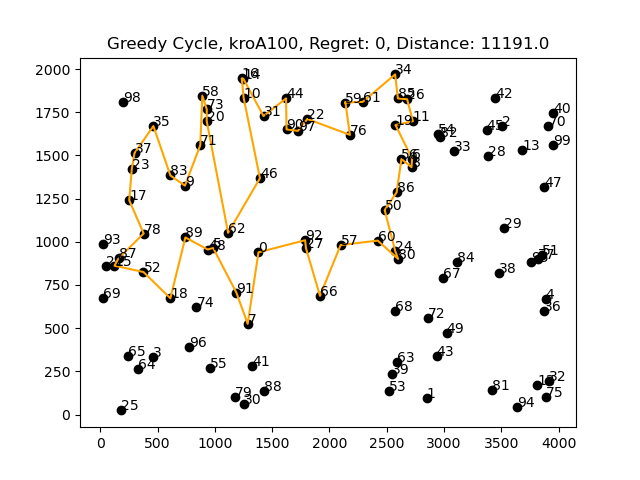
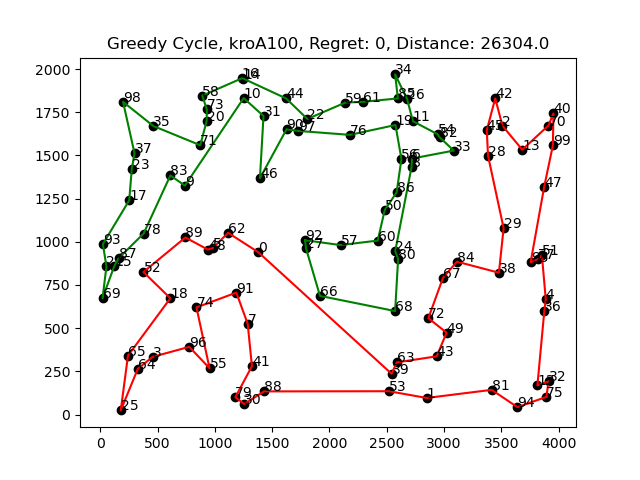
Two cycles

diff --git a/approaches/greedy_cycle/greedy_heuristic.py b/approaches/greedy_cycle/greedy_heuristic.py
@@ -10,37 +10,48 @@ class Greedy(AbstractApproach):
     def __init__(self, instance, regret = 1):
         self.instance = instance
         self.regret = regret
-        self.examples_num = np.ceil(instance.matrix.shape[0] / 2)
+        self.examples_num_first = np.ceil(instance.matrix.shape[0] / 2)
+        self.examples_num_second = instance.matrix.shape[0] - self.examples_num_first
         self.algorithm = 'Greedy Cycle'
-        self._solution = []
+        self._first_solution = list()
+        self._second_solution = list()
     
-    @property
-    def solution(self):
-        return self._solution
     
-    def solve(self, start_node):
-        self._solution = self._find_solution(start_node)
+    def solve(self, first_start_node, second_start_node):
+        self._first_solution, self._second_solution = self._find_solution(first_start_node, second_start_node)
 
-    def _find_solution(self, start_node):
-        cycle = [start_node, start_node] #z ostatniego można przejśc do pierwszego więc dodajemy obydwa w celach imitacji cyklu
+    def _find_solution(self, first_start_node, second_start_node):
+        first_cycle = [first_start_node, first_start_node] #z ostatniego można przejśc do pierwszego więc dodajemy obydwa w celach imitacji cyklu
+        second_cycle = [second_start_node, second_start_node] #z ostatniego można przejśc do pierwszego więc dodajemy obydwa w celach imitacji cyklu
 
-        while len(cycle) - 1 <= self.examples_num:
-            matrix_cost = dict()
+        while len(set(first_cycle)) < self.examples_num_first or len(set(second_cycle)) < self.examples_num_second:
+            if len(set(first_cycle)) < self.examples_num_first:
+                nodes_not_in_cycle = list(set(range(self.instance.matrix.shape[0])) - set(first_cycle) - set(second_cycle))
+                first_cycle = self._find_current_insertion(first_cycle, nodes_not_in_cycle)
+
+            if len(set(second_cycle)) < self.examples_num_second:
+                nodes_not_in_cycle = list(set(range(self.instance.matrix.shape[0])) - set(first_cycle) - set(second_cycle))
+                second_cycle = self._find_current_insertion(second_cycle, nodes_not_in_cycle)
+
+        return first_cycle, second_cycle
+
+    def _find_current_insertion(self, cycle, nodes_not_in_cycle):
+        matrix_cost = dict()
+        for idx, node_idx in enumerate(nodes_not_in_cycle):
+            local_insertion = list()
+
+            for edge_idx1 in range(len(cycle) - 1):
+                edge_idx2 = edge_idx1 + 1
+                ins_cost = self._compute_insertion_cost(node_idx = node_idx, edge_idx1 = cycle[edge_idx1], edge_idx2 = cycle[edge_idx2])
+                local_insertion.append(Insertion(node_idx, ins_cost, edge_idx1))
+
+            matrix_cost[idx] = self._sort_insertion(local_insertion)
             
-            nodes_not_in_cycle = list( set(range(self.instance.matrix.shape[0])) - set(cycle) )
-            for idx, node_idx in enumerate(nodes_not_in_cycle):
-                local_insertion = list()
+        v_best = self._find_best_insertion(matrix_cost)
+        self._insert_into_cycle(cycle, v_best)
 
-                for edge_idx1 in range(len(cycle) - 1):
-                    edge_idx2 = edge_idx1 + 1
-                    ins_cost = self._compute_insertion_cost(node_idx = node_idx, edge_idx1 = cycle[edge_idx1], edge_idx2 = cycle[edge_idx2])
-                    local_insertion.append(Insertion(node_idx, ins_cost, edge_idx1))
-
-                matrix_cost[idx] = self._sort_insertion(local_insertion)
-            
-            v_best = self._find_best_insertion(matrix_cost)
-            self._insert_into_cycle(cycle, v_best)
         return cycle
+
 
     def _sort_insertion(self, local_insertion):
         return sorted(local_insertion, key=operator.attrgetter('insertion_cost', 'node_to_insert'))

diff --git a/greedy_cycle.py b/greedy_cycle.py
@@ -44,26 +44,31 @@ def main():
 
         node_to_choose = list(range(instance.matrix.shape[0]))
         for i in range(times):
-            start_node = random.choice(node_to_choose)
-            node_to_choose = list( set(node_to_choose) - set([start_node]) )
+            first_start_node = random.choice(node_to_choose)
+            second_start_node = np.argmax(instance.matrix[first_start_node])
+
+            node_to_choose = list( set(node_to_choose) - set([first_start_node, second_start_node]) )
 
             greedy = Greedy(instance = instance, regret = regret)
-            greedy.solve(start_node)
+            greedy.solve(first_start_node, second_start_node)
 
-            list_of_solutions.append(greedy.compute_cost())
-            if best_greedy is None or list_of_solutions[-1] < best_greedy.compute_cost():
+            list_of_solutions.append(greedy.compute_total_cost())
+            if best_greedy is None or list_of_solutions[-1] < best_greedy.compute_total_cost():
                 best_greedy = greedy
 
 
         print(f'Instance: {instance_name}')
-        print(f'Best Path: {best_greedy.solution}')
-        print(f'Best Cost: {best_greedy.compute_cost()}')
+        print(f'Best First Path: {best_greedy.first_solution}')
+        print(f'Best Second Path: {best_greedy.second_solution}')
+        print(f'Best Cost: {best_greedy.compute_total_cost()}')
+        print()
+        print(f'Statistics: ')
         print(f'Min Cost: {min(list_of_solutions)}')
         print(f'Max Cost: {max(list_of_solutions)}')
         print(f'Average Cost: {np.mean(list_of_solutions)}')
         print()
 
-        plot_title = f'{best_greedy.algorithm}, {best_greedy.instance.instance_name}, Regret: {best_greedy.regret}, Distance: {best_greedy.compute_cost()}'
+        plot_title = f'{best_greedy.algorithm}, {best_greedy.instance.instance_name}, Regret: {best_greedy.regret}, Distance: {best_greedy.compute_total_cost()}'
         save_name = '{}-r_{}'.format(best_greedy.instance.instance_name, best_greedy.regret)
         plot_result(best_greedy, plot_title, save_name)
         

diff --git a/approaches/abstract_approach.py b/approaches/abstract_approach.py
@@ -3,28 +3,25 @@ import numpy as np
 
 class AbstractApproach():
     
-    def __init__(self, instance):
-        self.instance = instance
-        self.name_with_regret = '{}'.format(instance.instance_name)
-        self.examples_num = np.ceil(instance.matrix.shape[0] / 2)
-        self.algorithm = 'Random Cycle'
-        self._solution = []
 
     @property
-    def solution(self):
-        return self._solution
+    def first_solution(self):
+        return self._first_solution
+    
+    @property
+    def second_solution(self):
+        return self._second_solution
 
-    def solve(self, start_node):
-        cycle = [start_node, start_node]
-        while len(cycle) - 1 <= self.examples_num:
-            matrix_cost = dict()
-            nodes_not_in_cycle = list( set(range(self.instance.matrix.shape[0])) - set(cycle) )
-            cycle.insert(random.randrange(len(cycle)), random.choice(nodes_not_in_cycle))
-        self._solution = cycle
+    def solve(self, first_start_node, second_start_node):
+        raise NotImplementedError
     
 
-    def compute_cost(self):
-        cost = 0
-        for idx in range(len(self._solution) - 1):
-            cost += self.instance.matrix[self._solution[idx], self._solution[idx+1]]
-        return cost
+    def compute_total_cost(self):
+        first_cost = 0
+        second_cost = 0
+        for idx in range(len(self._first_solution) - 1):
+            first_cost += self.instance.matrix[self._first_solution[idx], self._first_solution[idx+1]]
+
+        for idx in range(len(self._second_solution) - 1):
+            second_cost += self.instance.matrix[self._second_solution[idx], self._second_solution[idx+1]]
+        return first_cost + second_cost

diff --git a/helpers/helpers.py b/helpers/helpers.py
@@ -9,8 +9,11 @@ def plot_result(solution, plot_title, save_name):
     x_points = list(map(lambda el: el.x, solution.instance._point_dict.values()))
     y_points = list(map(lambda el: el.y, solution.instance._point_dict.values()))
 
-    x_solution = np.array(x_points)[solution.solution]
-    y_solution = np.array(y_points)[solution.solution]
+    x_first_solution = np.array(x_points)[solution.first_solution]
+    y_first_solution = np.array(y_points)[solution.first_solution]
+
+    x_second_solution = np.array(x_points)[solution.second_solution]
+    y_second_solution = np.array(y_points)[solution.second_solution]
     
     fig, ax = plt.subplots()
 
@@ -18,7 +21,8 @@ def plot_result(solution, plot_title, save_name):
     for i, txt in enumerate(solution.instance._point_dict.keys()):
         ax.annotate(txt, (x_points[i], y_points[i]))
 
-    ax.plot(x_solution, y_solution, color = 'orange')
+    ax.plot(x_first_solution, y_first_solution, color = 'green')
+    ax.plot(x_second_solution, y_second_solution, color = 'red')
 
     plt.title(label = plot_title)
     Path(SAVE_DIR.format(solution.algorithm)).mkdir(parents=True, exist_ok=True)
